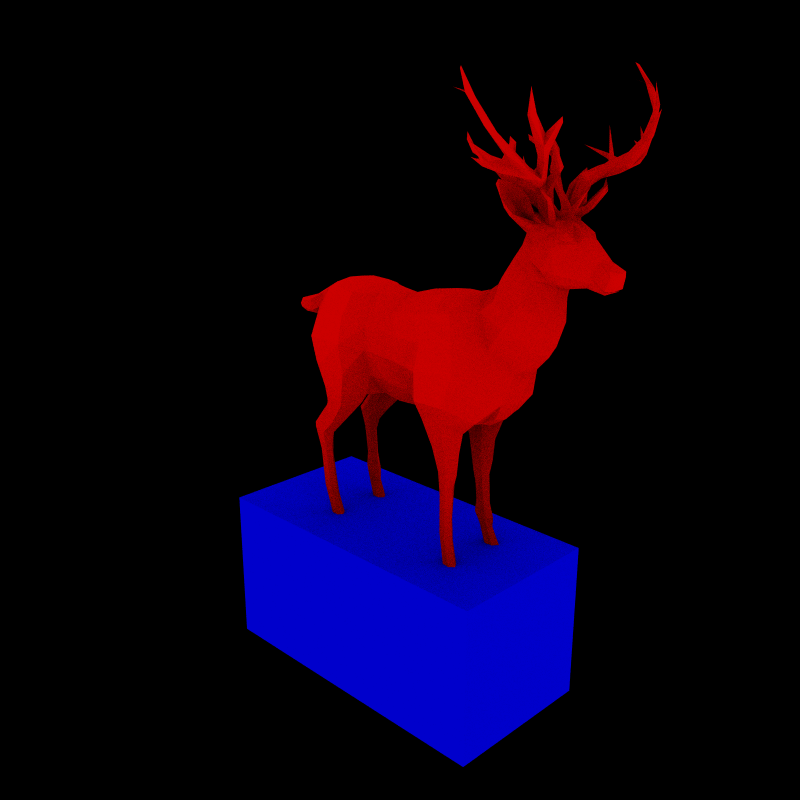
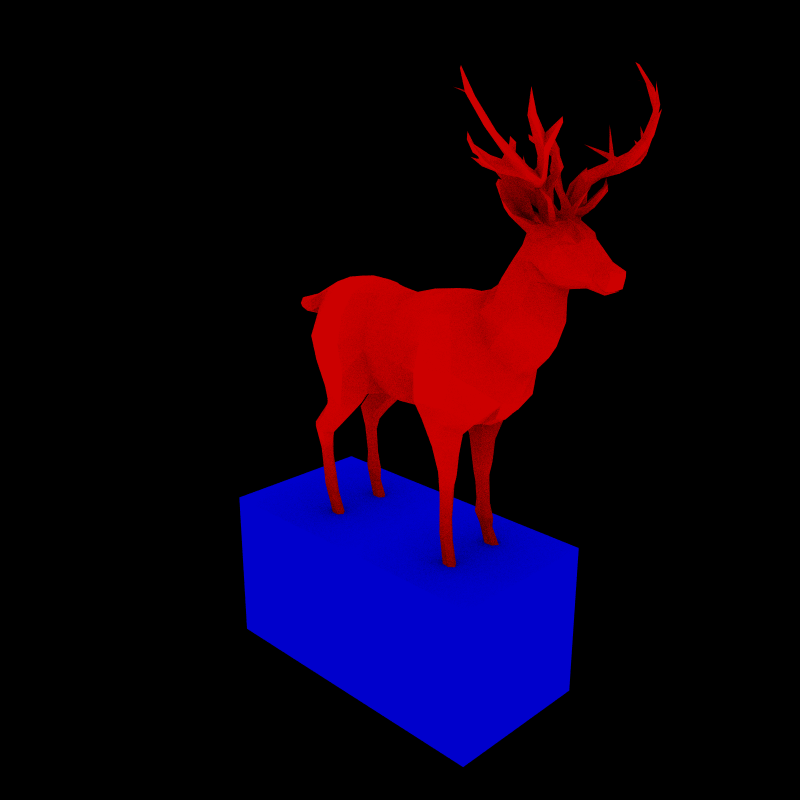
Add vector basis conversion

Changed region(s): [[0.3438, 0.4375, 0.6875, 0.75]]

diff --git a/src/integrators/ao_integrator.rs b/src/integrators/ao_integrator.rs
@@ -7,9 +7,9 @@ use ncollide3d::{
 use rand::Rng;
 use std::f32;
 
+use crate::object::ObjectData;
 use crate::sampler::HemisphereSampler;
 use crate::scene::Scene;
-use crate::object::ObjectData;
 
 pub struct AOIntegrator {
     range: f32,
@@ -20,19 +20,17 @@ impl AOIntegrator {
         AOIntegrator { range }
     }
 
-    pub fn launch_ray<R: Rng>(
-        &self,
-        ray: &Ray<f32>,
-        scene: &Scene,
-        rng: &mut R,
-    ) -> Point3<f32> {
+    pub fn launch_ray<R: Rng>(&self, ray: &Ray<f32>, scene: &Scene, rng: &mut R) -> Point3<f32> {
         let mut min_toi = f32::MAX;
         let mut sample_value = Point3::new(0.0, 0.0, 0.0);
         let mut min_intersection =
             RayIntersection::new(0.0, Vector3::new(0.0, 0.0, 0.0), FeatureId::Unknown);
         let mut min_data = &ObjectData::default();
         let mut found_intersection = false;
-        for intersection in scene.collision_world.interferences_with_ray(&ray, &CollisionGroups::new()) {
+        for intersection in scene
+            .collision_world
+            .interferences_with_ray(&ray, &CollisionGroups::new())
+        {
             found_intersection = true;
             if intersection.1.toi < min_toi {
                 let normal = intersection.1.normal;
@@ -47,26 +45,28 @@ impl AOIntegrator {
             }
         }
         if !found_intersection {
-            return Point3::new(0.0,0.0,0.0);
+            return Point3::new(0.0, 0.0, 0.0);
         }
 
         let sampler = HemisphereSampler;
         let ray_samples = Point2::new(rng.gen_range(0.0, 1.0), rng.gen_range(0.0, 1.0));
         let new_ray_origin = ray.point_at(min_intersection.toi - 0.01);
-        let new_ray_direction = sampler.sample(&ray_samples, min_intersection.normal);
-//        println!("{:?}, {:?}", min_intersection.normal, new_ray_direction);
+        let new_ray_direction = sampler.sample(&ray_samples, &min_intersection.normal);
+        //        println!("{:?}, {:?}", min_intersection.normal, new_ray_direction);
         let new_ray = Ray::new(new_ray_origin, new_ray_direction);
 
         let mut min_toi = f32::MAX;
-        for intersection in scene.collision_world.interferences_with_ray(&new_ray, &CollisionGroups::new()) {
+        for intersection in scene
+            .collision_world
+            .interferences_with_ray(&new_ray, &CollisionGroups::new())
+        {
             if intersection.1.toi < min_toi {
                 min_toi = intersection.1.toi;
             }
         }
         if min_toi < self.range {
-            Point3::new(0.0,0.0,0.0)
-        }
-        else {
+            Point3::new(0.0, 0.0, 0.0)
+        } else {
             min_data.albedo.as_ref().unwrap().clone()
         }
     }

diff --git a/src/camera.rs b/src/camera.rs
@@ -13,9 +13,9 @@ use std::sync::{Arc, Mutex};
 use std::time::Instant;
 
 use crate::integrators::AOIntegrator;
+use crate::object::ObjectData;
 use crate::sampler::UniformSampler2;
 use crate::scene::Scene;
-use crate::object::ObjectData;
 
 pub struct CameraBuilder {
     position: Isometry<f32>,
@@ -80,13 +80,9 @@ impl CameraBuilder {
 }
 
 impl Camera {
-    pub fn compute_samples(
-        &self,
-        scene: &Scene,
-        n_samples: u32,
-    ) -> Vec<Vec<Point3<f32>>> {
+    pub fn compute_samples(&self, scene: &Scene, n_samples: u32) -> Vec<Vec<Point3<f32>>> {
         let mut image = RgbImage::new(self.resolution[0] as u32, self.resolution[1] as u32);
-        let integrator = AOIntegrator::new(5.0);
+        let integrator = AOIntegrator::new(0.5);
         let pixel_sampler = UniformSampler2::new(self.pixel_dimensions);
         let start_time = Instant::now();
         let samples = (0..self.resolution[0])
@@ -120,8 +116,11 @@ impl Camera {
         for x in 0..self.resolution[0] {
             for y in 0..self.resolution[1] {
                 let value = samples[x][y];
-                image.get_pixel_mut(x as u32, y as u32).data =
-                    [(255.0 * value[0]) as u8, (255.0 * value[1]) as u8, (255.0 * value[2]) as u8];
+                image.get_pixel_mut(x as u32, y as u32).data = [
+                    (255.0 * value[0]) as u8,
+                    (255.0 * value[1]) as u8,
+                    (255.0 * value[2]) as u8,
+                ];
             }
         }
         image.save("./output.png").unwrap();

diff --git a/src/sampler.rs b/src/sampler.rs
@@ -2,6 +2,8 @@ use nalgebra::{Point2, Vector2, Vector3};
 
 use std::f32::consts::PI;
 
+use crate::math::Vector3ToBasis;
+
 pub struct UniformSampler2 {
     dims: Vector2<f32>,
 }
@@ -19,20 +21,12 @@ impl UniformSampler2 {
 pub struct HemisphereSampler;
 
 impl HemisphereSampler {
-    pub fn sample(&self, input: &Point2<f32>, normal: Vector3<f32>) -> Vector3<f32> {
+    pub fn sample(&self, input: &Point2<f32>, normal: &Vector3<f32>) -> Vector3<f32> {
         let phi = input[0] * 2.0 * PI;
         let theta = input[1].acos();
 
-        let b3 = normal;
-        let cross_dir = if b3[0] < 0.5 {
-            Vector3::new(1.0,0.0,0.0)
-        }
-        else {
-            Vector3::new(0.0,1.0,0.0)
-        };
-        let b1 = b3.cross(&cross_dir).normalize();
-        let b2 = b3.cross(&b1);
-//        println!("{}, {}, {}, {}", theta_n, phi_n, theta, phi);
+        let (b1, b2, b3) = normal.orthonormal_basis();
+        //        println!("{}, {}, {}, {}", theta_n, phi_n, theta, phi);
 
         let cos_theta = theta.cos();
         let sin_theta = theta.sin();

diff --git a/src/math/vector_traits.rs b/src/math/vector_traits.rs
@@ -1,0 +1,19 @@
+use nalgebra::Vector3;
+
+pub trait Vector3ToBasis: Sized {
+    fn orthonormal_basis(&self) -> (Self, Self, Self);
+}
+
+impl Vector3ToBasis for Vector3<f32> {
+    fn orthonormal_basis(&self) -> (Self, Self, Self) {
+        let b3 = self.clone();
+        let cross_dir = if b3[0] < 0.5 {
+            Vector3::new(1.0, 0.0, 0.0)
+        } else {
+            Vector3::new(0.0, 1.0, 0.0)
+        };
+        let b1 = b3.cross(&cross_dir).normalize();
+        let b2 = b3.cross(&b1);
+        (b1, b2, b3)
+    }
+}

diff --git a/src/shaders/mod.rs b/src/shaders/mod.rs
@@ -1,5 +1,15 @@
 use nalgebra::Vector3;
 
-pub trait BRDF: Send + Sync {
-    fn sample(&self, dir: Vector3<f32>) -> f32;
+pub trait BxDF {
+    fn sample(&self, dir1: Vector3<f32>, dir2: Vector3<f32>) -> f32;
+}
+
+pub trait BRDF: BxDF {}
+
+pub trait BTDF: BxDF {}
+
+pub trait BSDF: Send + Sync {
+    fn sample(&self, dir1: Vector3<f32>, dir2: Vector3<f32>) -> f32;
+
+    fn components(&self) -> Vec<Box<BxDF>>;
 }

diff --git a/src/main.rs b/src/main.rs
@@ -1,18 +1,16 @@
 mod camera;
 mod integrators;
+mod math;
+mod object;
 mod sampler;
 mod scene;
-mod object;
 mod shaders;
 
 use std::path::Path;
 use std::sync::Arc;
 
 use nalgebra::{Point3, Unit, Vector2, Vector3};
-use ncollide3d::{
-    math::Isometry,
-};
-
+use ncollide3d::math::Isometry;
 
 use crate::camera::{Camera, CameraBuilder};
 use crate::scene::Scene;

diff --git a/src/object.rs b/src/object.rs
@@ -1,9 +1,9 @@
+use crate::shaders::BSDF;
 use nalgebra::Point3;
-use crate::shaders::BRDF;
 
 #[derive(Default)]
 pub struct ObjectData {
     pub albedo: Option<Point3<f32>>,
     pub emission: Option<(f32, Point3<f32>)>,
-    pub brdf: Option<Box<BRDF>>,
+    pub bsdf: Option<Box<BSDF>>,
 }

diff --git a/src/math/mod.rs b/src/math/mod.rs
@@ -1,0 +1,2 @@
+mod vector_traits;
+pub use vector_traits::*;
